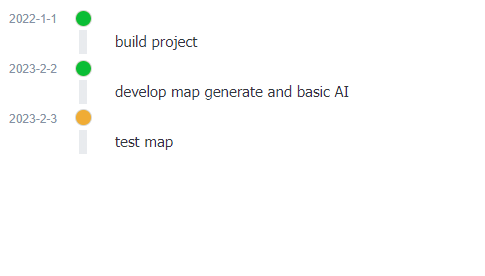
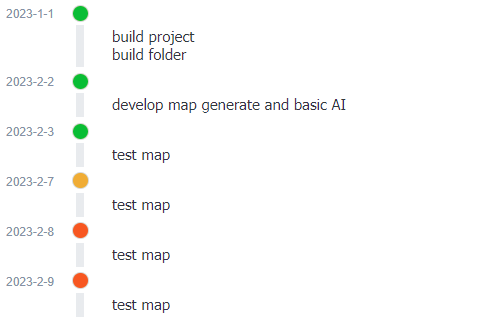
fix time

diff --git a/src/Timeline.js b/src/Timeline.js
@@ -78,13 +78,17 @@ function insertElem(container,nodes)
         let timelineLeftElem=document.createElement("div");
         timelineLeftElem.className="timeline-left";
         let timelineDotElem=document.createElement("div");
-        timelineDotElem.className="timeline-dot";
+        timelineDotElem.className="timeline-dot-past";
         if(typeof(nodes[index].time)=="object")
         {
-            timelineLeftElem.innerHTML=`<p>${nodes[index].time.toLocaleDateString().replace(/\//g,"-")}</p>`;
+            timelineLeftElem.innerHTML=`<p>${nodes[index].time.getFullYear()}-${nodes[index].time.getMonth()+1}-${nodes[index].time.getDate()}</p>`;
             if (nodes[index].time.setHours(0,0,0,0)==new Date().setHours(0,0,0,0)) 
             {
                 timelineDotElem.className="timeline-dot-current";
+            }
+            else if(nodes[index].time > new Date())
+            {
+                timelineDotElem.className="timeline-dot-future";
             }
         }
         else

diff --git a/src/test.html b/src/test.html
@@ -10,7 +10,7 @@
 <body>                                 
 
     <div class="timeline-area">
-        <div class="timeline-container">2023-2-5\n我想飞\n我想飞我想飞我想飞我想飞我想飞我想飞我想飞我想飞我想飞\n我想飞我想飞我想飞我想飞我想飞\n我想飞\n我想飞\n我想飞\n我想飞\n\n2023-2-3\n起飞\n起飞</div>
+        <div class="timeline-container">2023-2-5\n我想飞\n我想飞我想飞我想飞我想飞我想飞我想飞我想飞我想飞我想飞\n我想飞我想飞我想飞我想飞我想飞\n我想飞\n我想飞\n我想飞\n我想飞\n\n2023-2-7\n起飞\n起飞\n\n2023-2-9\n起飞\n起飞\n</div>
     </div>
 
 </body>                                 

diff --git a/src/Timeline.css b/src/Timeline.css
@@ -30,7 +30,7 @@
     background-size: 8px 5px;
     background-repeat: repeat-y;
   }
-  .timeline-dot {
+  .timeline-dot-past {
     left: var(--left);
     width: 15px;
     height: 15px;
@@ -51,6 +51,19 @@
     border-radius: 50%;
     box-shadow: 0 0 0 1px #d8d8d8;
     background: #f0a80d;
+    text-align: center;
+    top: 0;
+    line-height: 40px;
+    margin-left: -3.5px;
+  }
+  .timeline-dot-future {
+    left: var(--left);
+    width: 15px;
+    height: 15px;
+    position: absolute;
+    border-radius: 50%;
+    box-shadow: 0 0 0 1px #d8d8d8;
+    background: #f55104;
     text-align: center;
     top: 0;
     line-height: 40px;

diff --git a/src/TimelineRule.js b/src/TimelineRule.js
@@ -13,7 +13,6 @@ module.exports = {
           }
           try {
             var contentHtml = markdownIt.utils.escapeHtml(token.content);
-            console.info(contentHtml);
           } catch (e) {
             var contentHtml = {};
           }

diff --git a/README.md b/README.md
@@ -8,14 +8,23 @@ render the timeline in the markdown
 
 ````
 ```timeline
-2022-1-1
+2023-1-1
 build project
 build folder
-
+ 
 2023-2-2
 develop map generate and basic AI
-
+ 
 2023-2-3
+test map
+
+2023-2-7
+test map
+
+2023-2-8
+test map
+
+2023-2-9
 test map
 ```
 ````
@@ -23,6 +32,24 @@ The block start with \`\`\`timeline,end with \`\`\`
 
 Every node is composed of time and content and is split by space line between different node.
 
+# Change Style
+For example,you want to change the color of dot
+
+open the menu above Tools->Options->Appearance->Show Advanced Settings->Custom stylesheet rendered Markdown
+
+copy the following text to the bottom of the file
+```css
+.timeline-dot-past {
+  background: #148b82;
+}
+.timeline-dot-current {
+  background: #f0a80d;
+}
+.timeline-dot-future {
+  background: #f55104;
+}
+```
+save the file and reboot your joplin
 # Acknowledgements
 Hieu-Thi Luong's Life Calendar plugin,I refer to his code.
 
@@ -32,3 +59,8 @@ Joplin's offical tutorial.
 
 # License
 GPL
+
+# Change Log
+## 1.0.1
+- fix the error of time in different country
+- add the change style chapter to readme.md 
